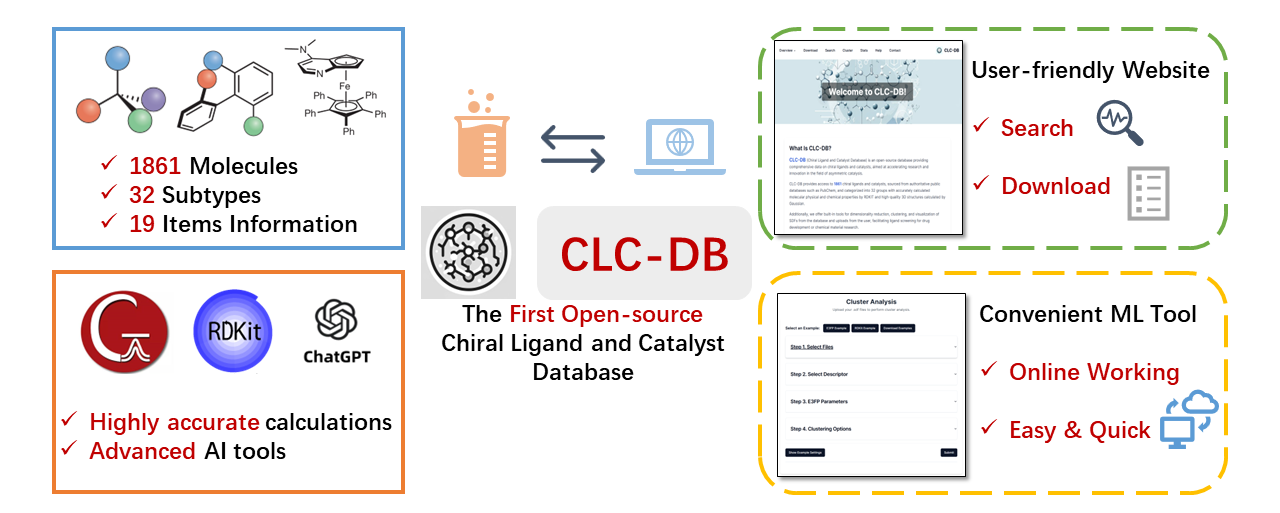
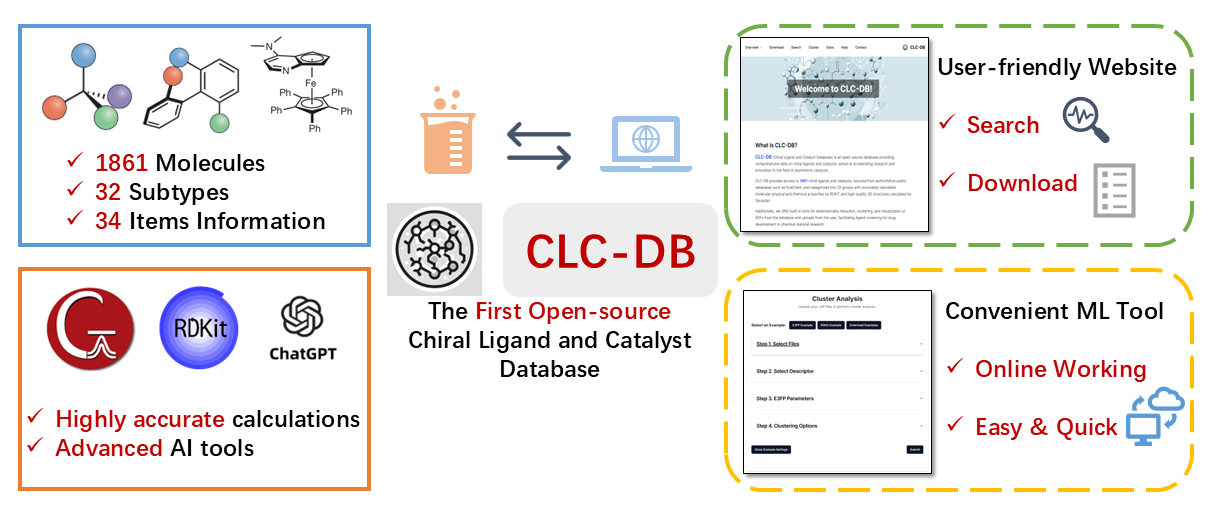
update the fig

Changed region(s): [[0.0, 0.0296, 1.0, 0.9783], [0.5805, 0.7411, 0.6722, 0.8004], [0.9472, 0.2372, 1.0, 0.2668]]

diff --git a/README.md b/README.md
@@ -20,5 +20,5 @@ CLC-DB constructs an online webserver using the Python-based Django framework, a
 
 If you use the data and online tools of CLC-DB or code of server, please cite:
 
-> Yu G, Yu K, Wang X, Huo X, Yang Y. CLC-DB: an open-source online database of chiral ligands and catalysts. ChemRxiv. 2024; doi:10.26434/chemrxiv-2024-h2rdl-v2.
+> Yu, G., Yu, K., Wang, X. *et al.* Clc-db: an open-source online database of chiral ligands and catalysts. *J Cheminform* **17**, 45 (2025).
 
